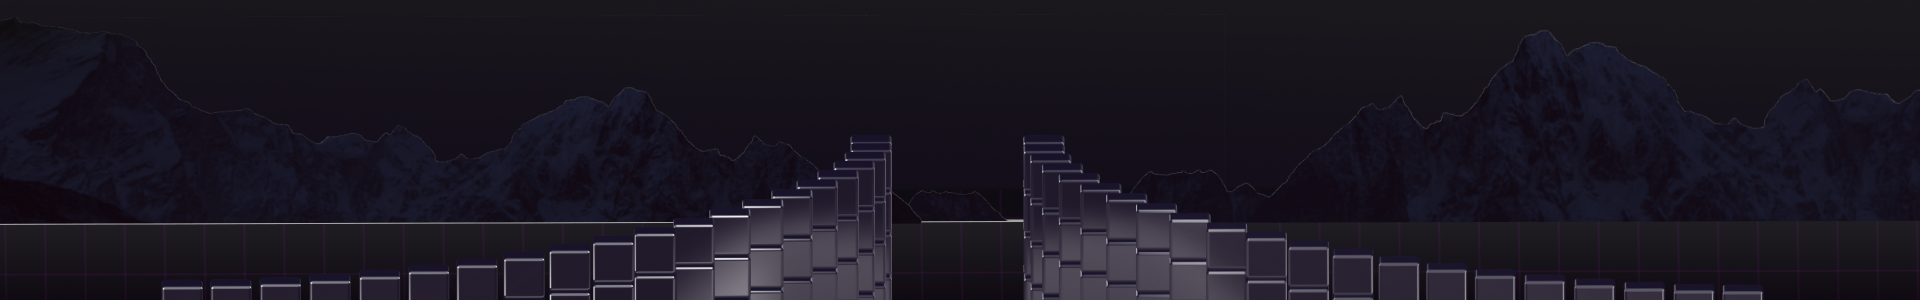
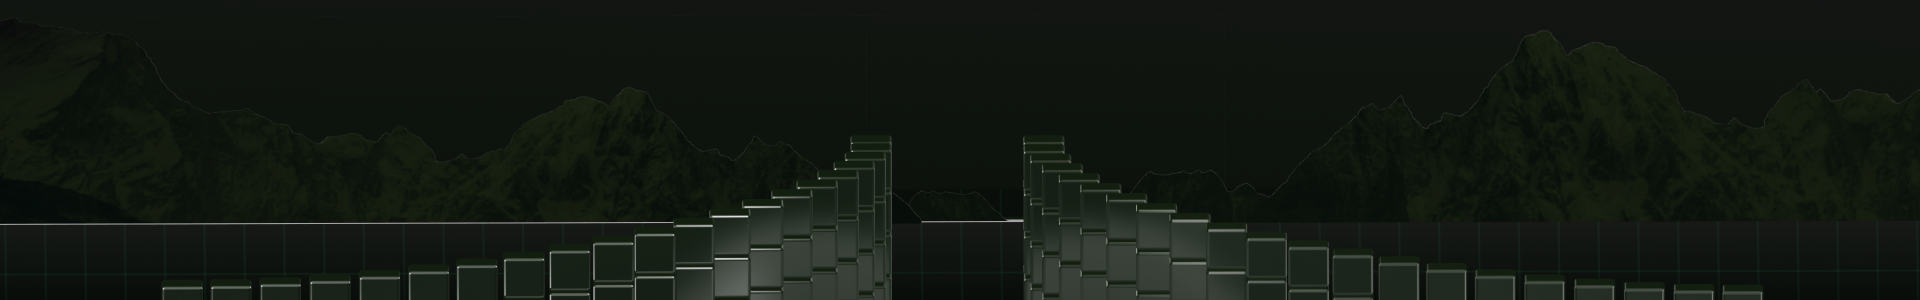
chore: change halving color to mainnet primary

diff --git a/src/pages/Halving/index.module.scss b/src/pages/Halving/index.module.scss
@@ -16,21 +16,21 @@
   flex-direction: row;
 
   .digtialClockNumber {
-    border: 1px solid rgba(57, 21, 86, 1);
+    border: 1px solid #004938;
     border-radius: 8px;
     display: flex;
     align-items: center;
     justify-content: center;
     width: 64px;
     height: 72px;
-    background: linear-gradient(rgba(49, 24, 65, 1), rgba(18, 18, 18, 1), rgba(46, 30, 54, 1));
+    background: linear-gradient(#003a2d, #001d16, #003a2d);
     position: relative;
     margin-bottom: 4px;
     &::after {
       content: ' ';
       width: 100%;
       height: 1px;
-      background-color: rgba(69, 46, 87, 1);
+      background-color: #004938;
       position: absolute;
       z-index: 0;
     }
@@ -59,7 +59,7 @@
   .digtialClockText {
     font-size: 12px;
     font-weight: 500;
-    color: rgba(154, 44, 236, 1);
+    color: var(--primary-color);
     text-align: center;
   }
 
@@ -94,13 +94,13 @@
   :global {
     .ant-progress-inner {
       background-color: transparent;
-      border: 1px solid rgba(154, 44, 236, 1);
+      border: 1px solid var(--primary-color);
     }
   }
 }
 
 .halvingProgressMarks {
-  color: rgba(154, 44, 236, 1);
+  color: var(--primary-color);
   display: flex;
   justify-content: space-evenly;
   span {
@@ -114,7 +114,7 @@
       left: calc(50% - 1px);
       display: flex;
       align-items: center;
-      background-color: rgba(154, 44, 236, 1);
+      background-color: var(--primary-color);
     }
   }
 }
@@ -139,15 +139,15 @@
     display: table-header-group;
     vertical-align: middle;
     border-color: inherit;
-    background-color: rgba(47, 42, 49, 1);
+    background-color: #00291f;
   }
   tr {
     text-transform: capitalize;
     &:nth-child(1n) {
-      background-color: rgba(38, 33, 40, 1);
+      background-color: #003d2f;
     }
     &:nth-child(2n) {
-      background-color: rgba(47, 42, 49, 1);
+      background-color: #00291f;
     }
   }
   th {
@@ -165,7 +165,7 @@
   padding-top: 32px;
   padding-bottom: 128px;
   color: white;
-  background-color: rgba(32, 32, 32, 1);
+  background-color: rgba(5, 22, 6, 1);
   background-position: bottom;
   background-size: 100% auto;
   background-repeat: no-repeat;
@@ -214,7 +214,7 @@
     padding: 8px 16px;
     border-radius: 4px;
     border: 0;
-    background: linear-gradient(180deg, rgba(172, 54, 244, 1), rgba(138, 25, 207, 1));
+    background: linear-gradient(180deg, #00cc9b, #008365);
   }
 
   .halvingPanelTitle {
@@ -275,7 +275,7 @@
 
 .panel {
   color: rgba(240, 240, 240, 1);
-  background: rgba(34, 27, 40, 1);
+  background: #001d16;
   display: flex;
   flex-direction: column;
   border-radius: 12px;
@@ -297,7 +297,7 @@
 }
 
 .blockquote {
-  background-color: rgba(47, 42, 49, 1);
+  background-color: #00291f;
   padding: 16px;
   border-radius: 16px;
 }
@@ -343,7 +343,7 @@
 }
 
 .textPrimary {
-  color: rgba(154, 44, 236, 1);
+  color: var(--primary-color);
 }
 
 .textCenter {

diff --git a/src/components/Banner/index.module.scss b/src/components/Banner/index.module.scss
@@ -17,11 +17,7 @@ $backgroudColor: #232323;
 
 .halvingBannerSuccess {
   background-size: cover;
-  background-position: center !important;
-
-  @media (min-width: 750px) {
-    background-size: 250% !important;
-  }
+  background-position: center;
 }
 
 .halvingBannerWrapper {
@@ -75,19 +71,19 @@ $backgroudColor: #232323;
   text-transform: capitalize;
 
   &.linear {
-    background: linear-gradient(45deg, rgb(183, 129, 219), rgba(133, 69, 178, 1), rgb(183, 129, 219));
+    background: linear-gradient(45deg, rgb(130, 203, 140), rgb(121, 122, 121), rgb(172, 221, 181));
     background-clip: text;
     -webkit-text-fill-color: transparent;
   }
 
   &.success {
     transform: rotate(-2deg);
-    text-shadow: 1px 1px 1px rgba(172, 54, 244, 1), -0.5px -0.5px 1px white;
+    text-shadow: 1px 1px 1px var(--primary-color), -0.5px -0.5px 1px white;
     color: rgb(28, 28, 28);
     margin-top: -12px;
 
     @media (min-width: 750px) {
-      text-shadow: 1px 1px 1px rgba(172, 54, 244, 1), -1px -1px 1px white;
+      text-shadow: 1px 1px 1px var(--primary-color), -1px -1px 1px white;
     }
   }
 
@@ -108,7 +104,7 @@ $backgroudColor: #232323;
   padding: 8px 16px;
   user-select: none;
   text-transform: capitalize;
-  background: linear-gradient(180deg, rgba(172, 54, 244, 1), rgba(138, 25, 207, 1));
+  background: linear-gradient(180deg, #00cc9b, #008365);
 
   @media (min-width: 750px) {
     padding: 16px 24px;
